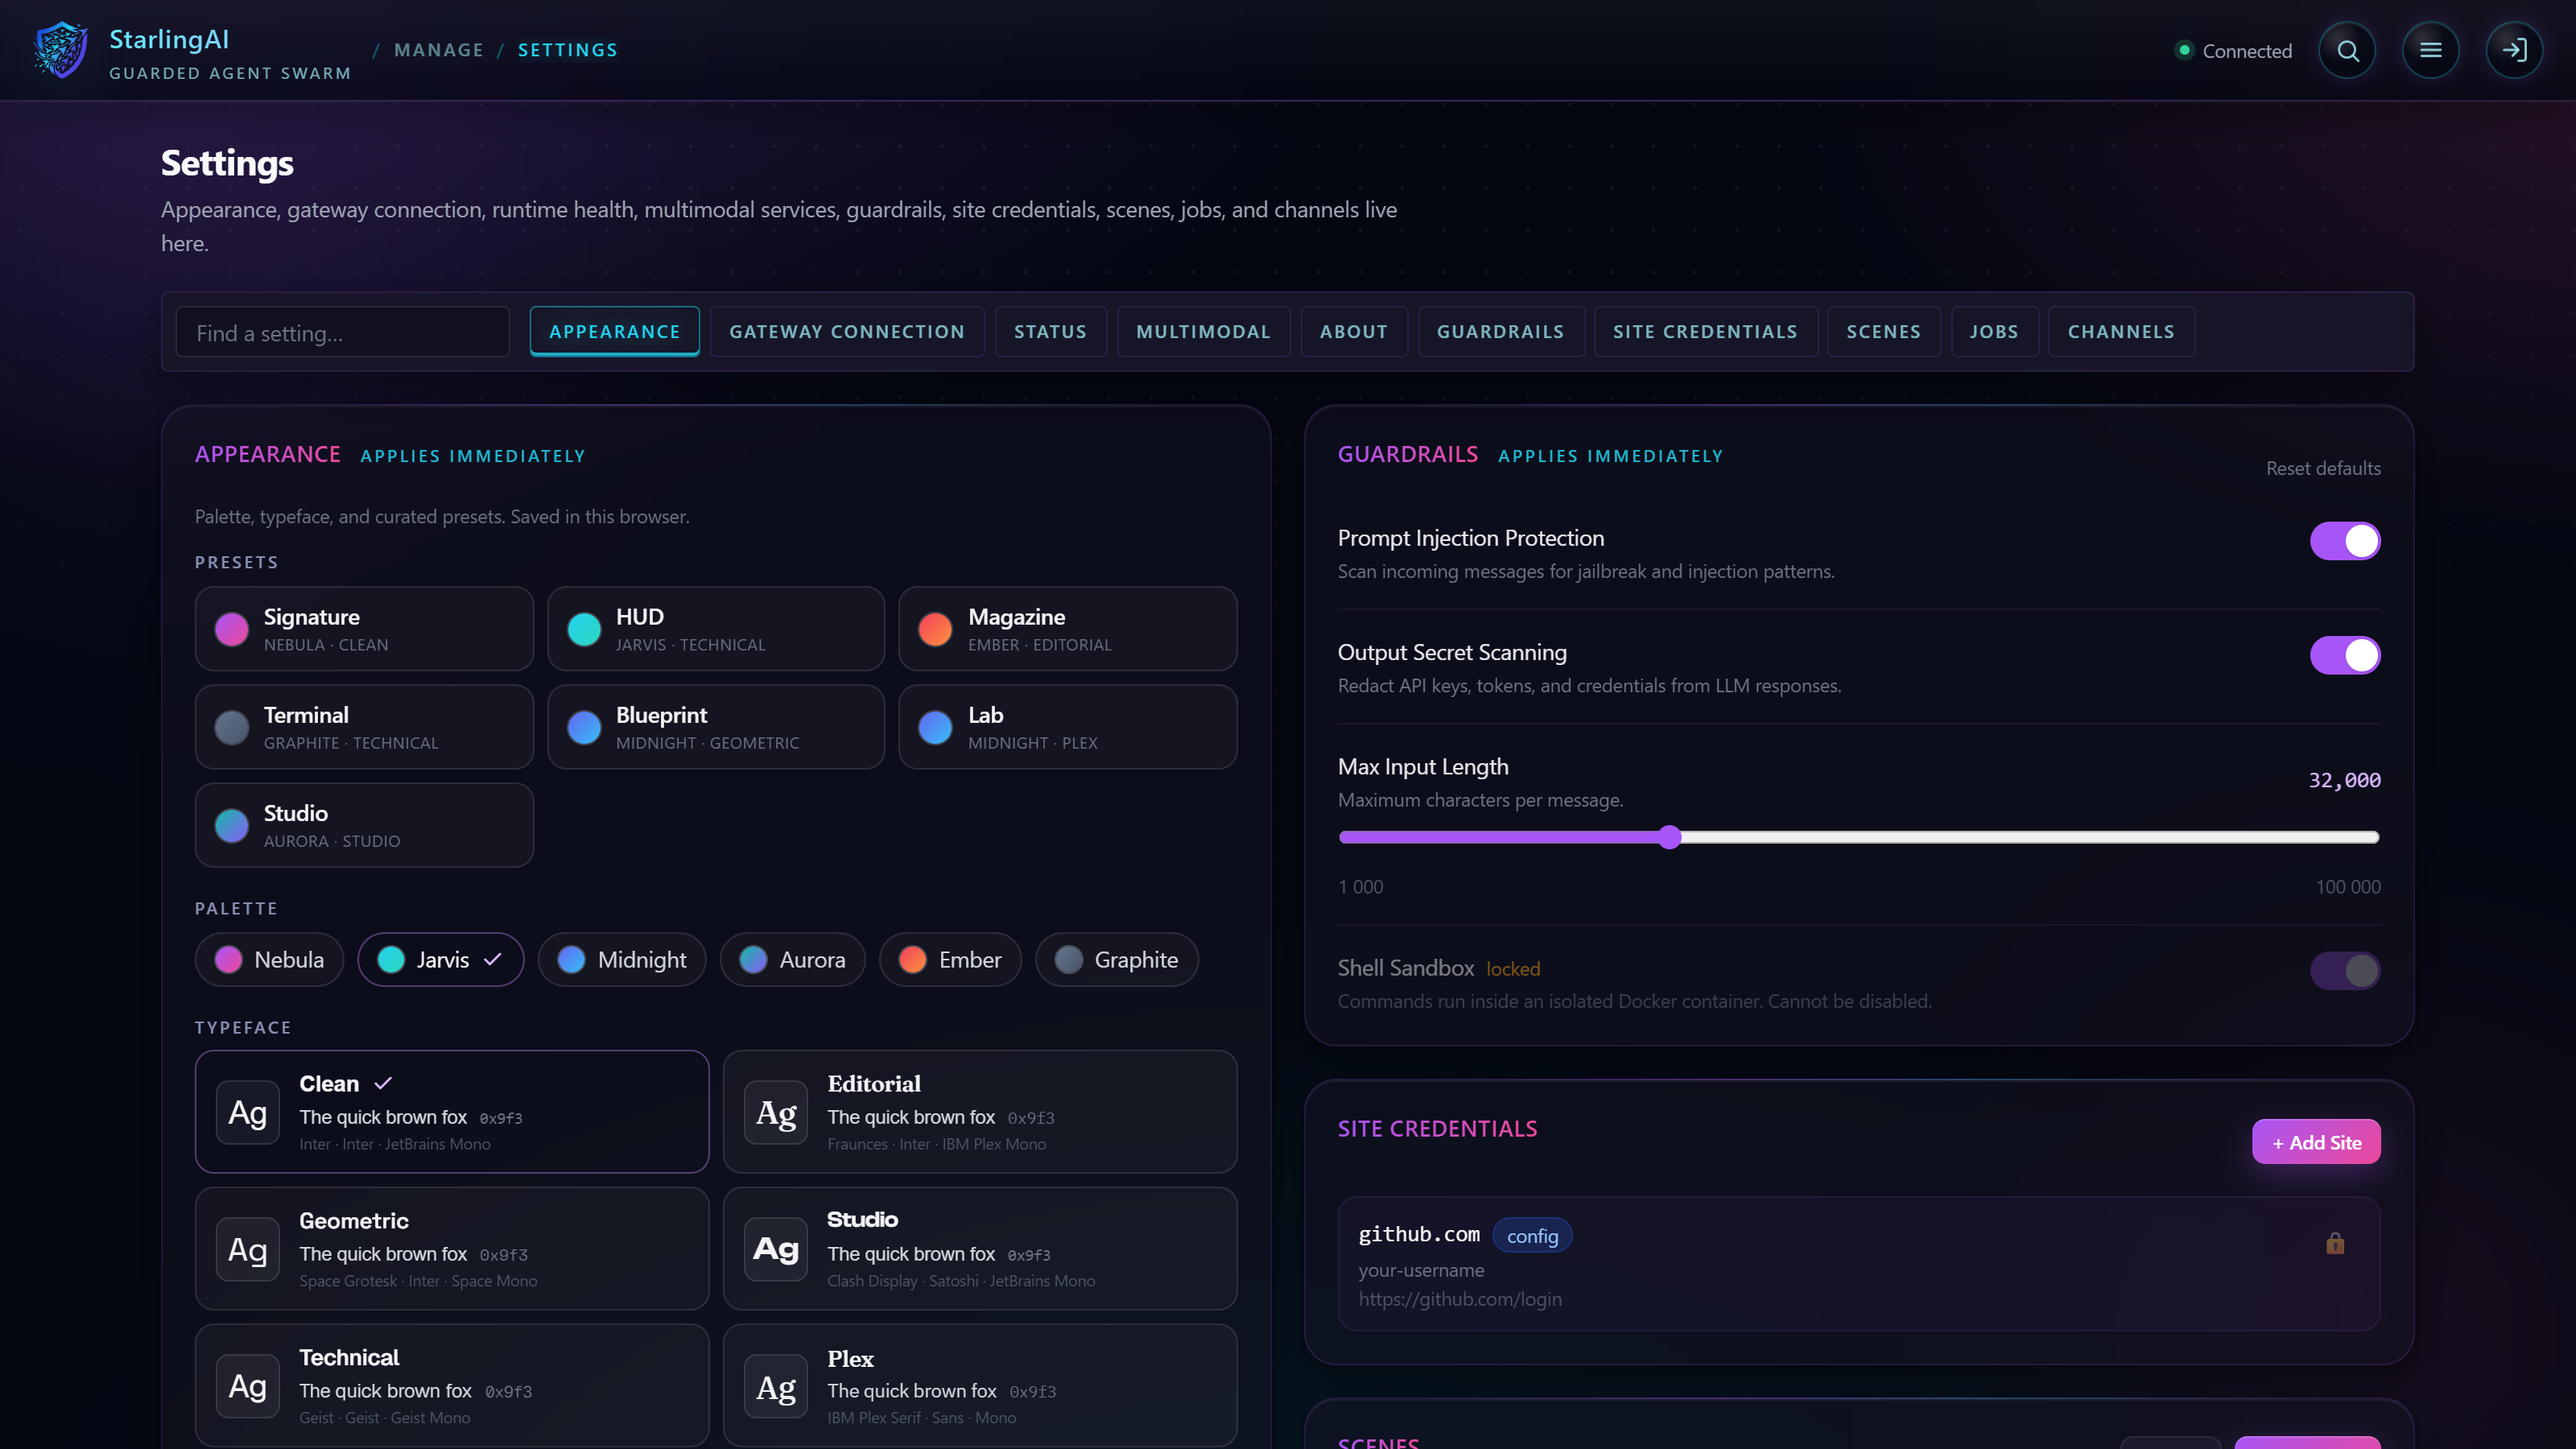
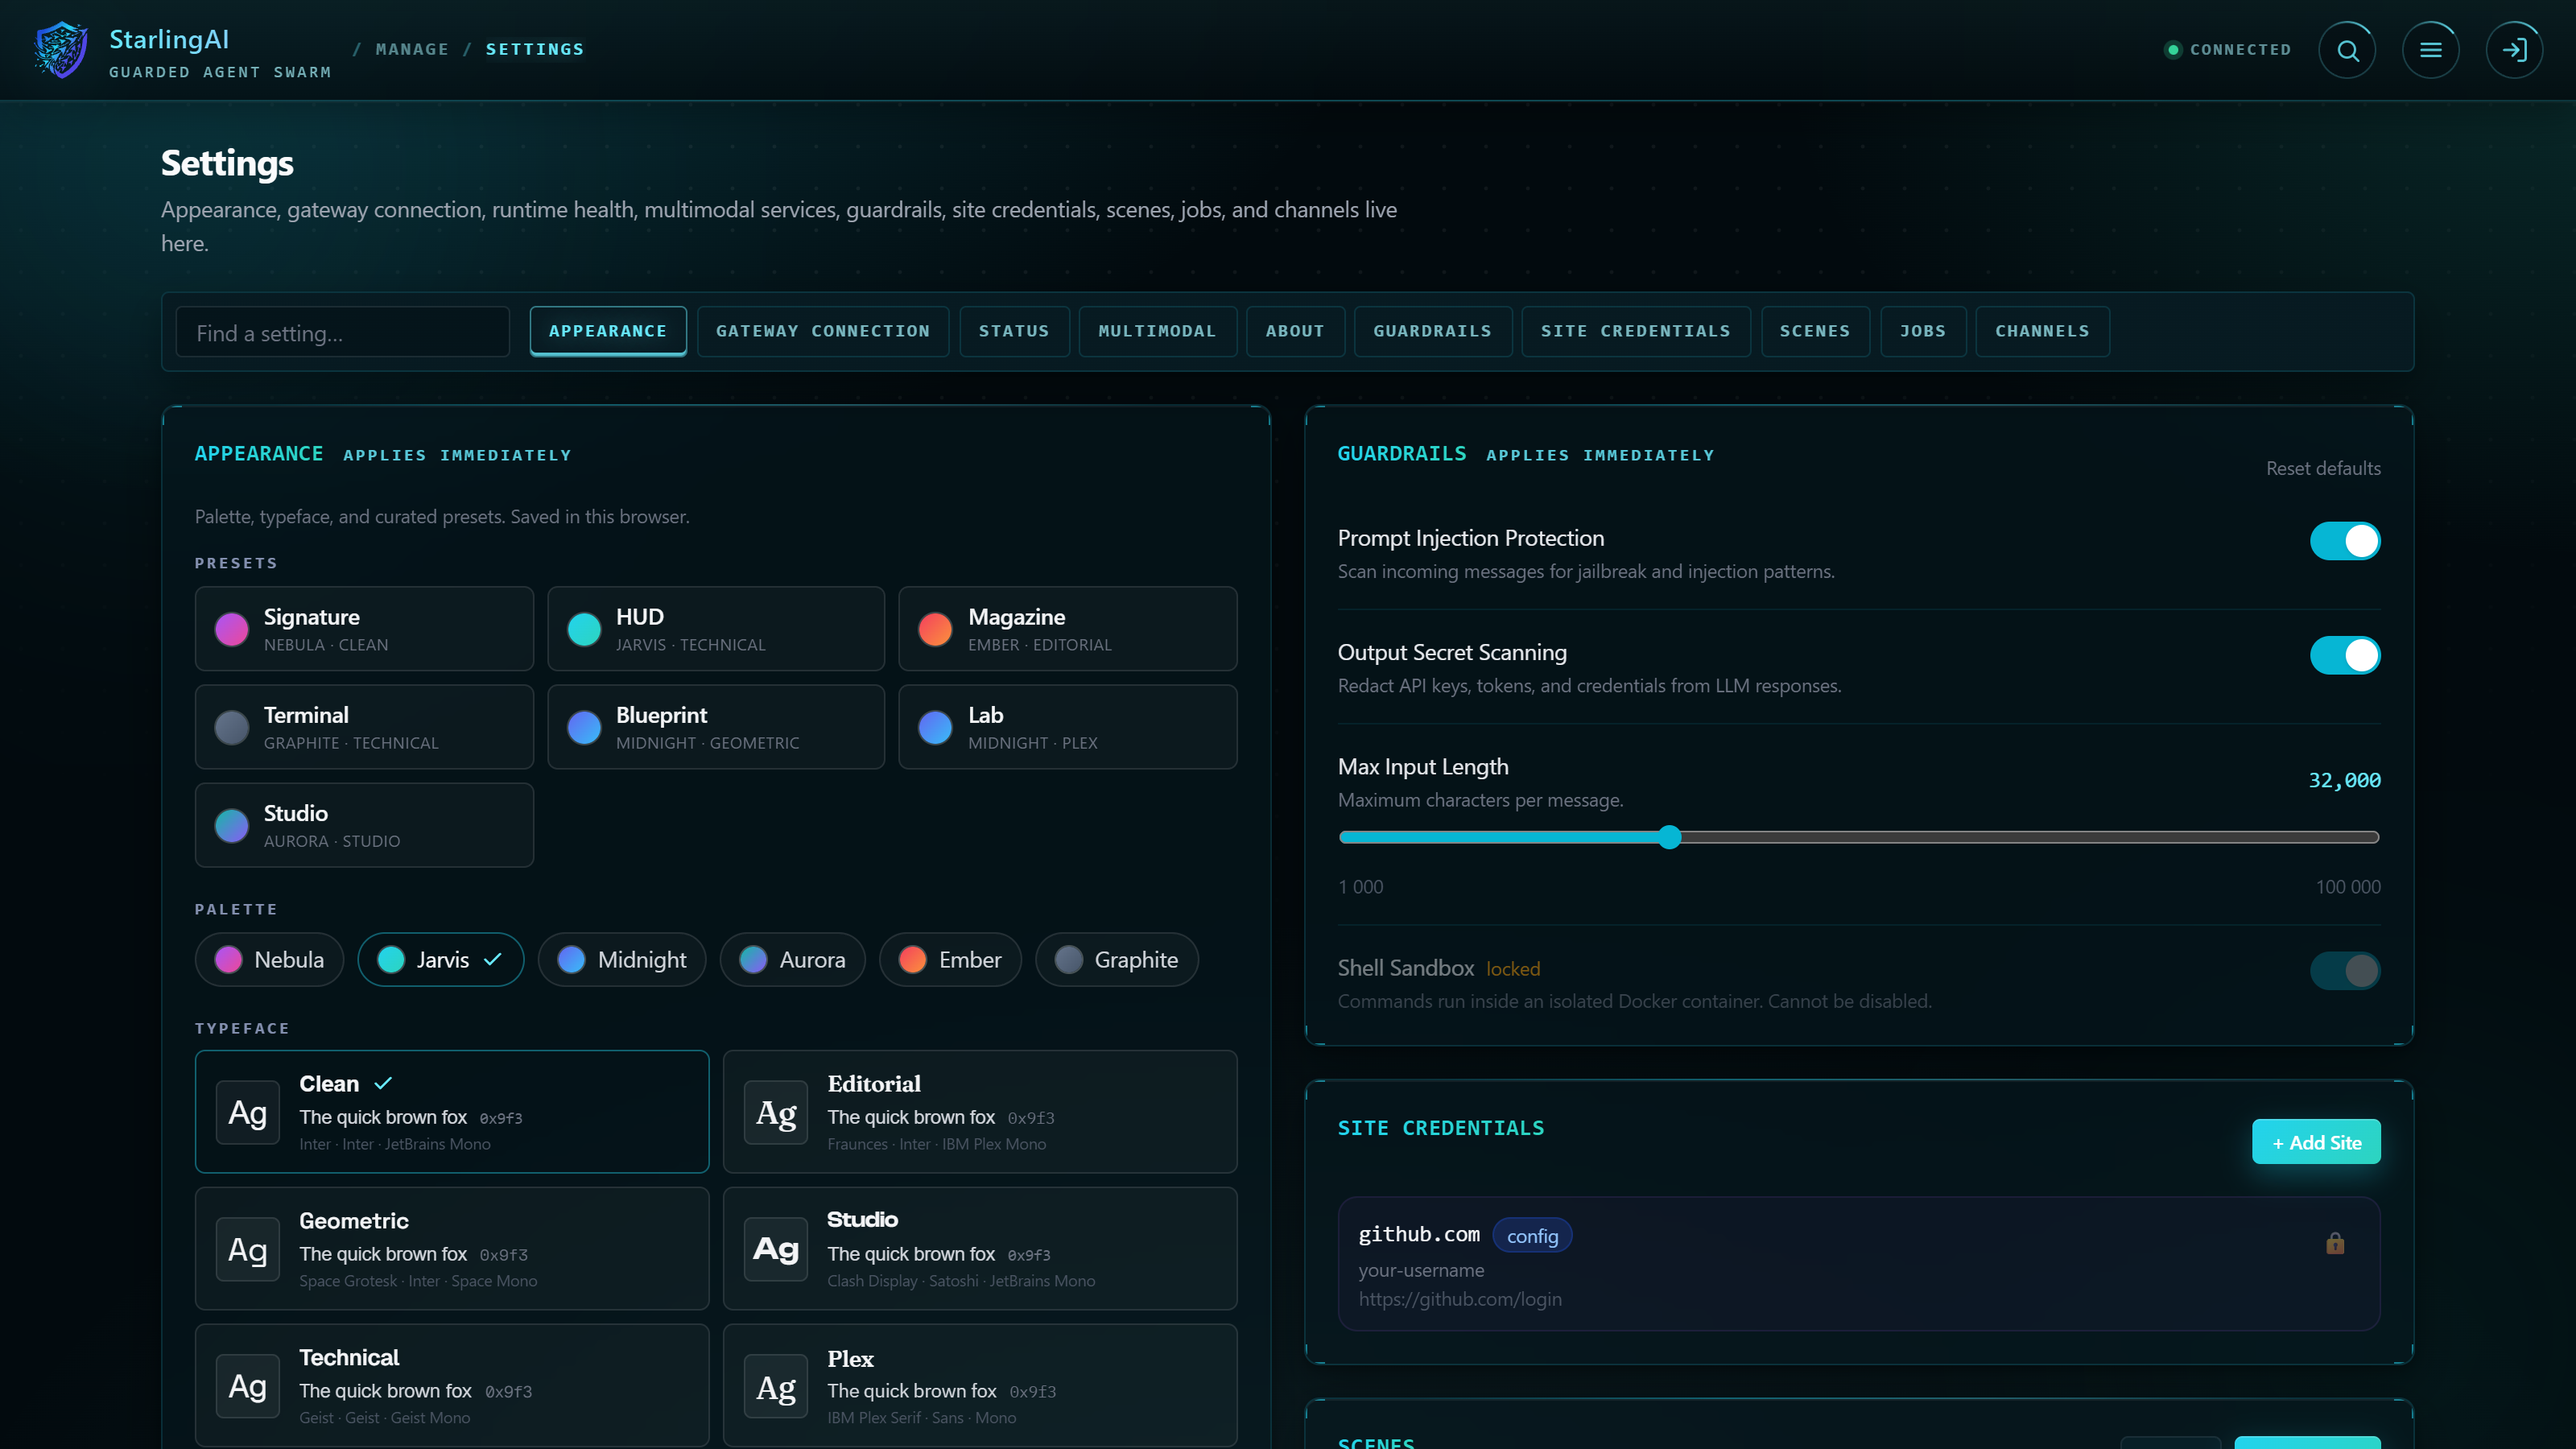
docs(readme): the screenshots show the controls on their orbit
All six reshot at 3200x1800 from the real pages. They are in the default
palette now (Jarvis): the harness that takes them never applied the theme,
so they showed Nebula, and the Settings shot showed it with "Jarvis" ticked
in the palette picker. The hero is a turn that is really running, with the
input bay open for Stop and Steer, as it is on the page. The Agent Catalog
shot has the catalog as it is since the routing change
(web_task_coordinator's entry).

diff --git a/README.md b/README.md
@@ -12,7 +12,7 @@
 
 [Quick Start](#quick-start) · [What it does](#what-the-swarm-can-do) · [Architecture](docs/architecture.md) · [API](docs/api.md) · [Security](docs/security.md)
 
-<img src="assets/screenshots/chat-turn-at-orb.png" alt="The StarlingAI dashboard during a research turn — a sphere of fine light rings holds the orb's glowing core and its cloud of particles, a track of light round the orb carries the turn's steps, the newest in front, and a status line under the orb saying what the swarm is doing; the question sits on the right, an earlier answer on the left" width="100%" />
+<img src="assets/screenshots/chat-turn-at-orb.png" alt="The StarlingAI dashboard during a research turn — a sphere of fine light rings holds the orb's glowing core and its cloud of particles, a track of light round the orb carries the turn's steps, the newest in front, and a status line under the orb saying what the swarm is doing; above the orb stand the session's two controls, each in a small gimbal of light; the question sits on the right, an earlier answer on the left, and the input bay at the foot offers Stop and Steer" width="100%" />
 <sub><em>The swarm at work. A sphere of fine light rings holds the orb's breathing core; while a turn runs, a track of light assembles round the orb and carries the turn's steps — the newest in front — and one line beneath says what it is doing right now.</em></sub>
 
 </div>
@@ -202,7 +202,7 @@ pnpm sai dev web               # start web UI in dev mode
 <br/><sub><em>Swarm Health: the warden's live view — alerts, capability gaps, tool promotions, paused tasks, circuit breakers.</em></sub>
 </div>
 
-- **The turn at the orb** — the orb's core and its cloud of particles breathe inside a sphere of hairline rings: a globe cage, graduated scales and slowly tumbling gimbals, drawn in light. While a turn runs, a track of the same make assembles round the whole orb and the turn's steps ride on it, and one status line under the orb says, in the swarm's own words, what it is doing now: its plan, a finished step, that it is still on it. The conversation keeps only questions and answers; each answer folds its steps into one line that opens the full record, and any step opens in the side panel.
+- **The turn at the orb** — the orb's core and its cloud of particles breathe inside a sphere of hairline rings: a globe cage, graduated scales and slowly tumbling gimbals, drawn in light. While a turn runs, a track of the same make assembles round the whole orb and the turn's steps ride on it, and one status line under the orb says, in the swarm's own words, what it is doing now: its plan, a finished step, that it is still on it. The conversation keeps only questions and answers; each answer folds its steps into one line that opens the full record, and any step opens in the side panel. The page's own controls — the session, its actions, the message input — stand in the orb's space too: each a glyph in a small gimbal, riding an orbit round the orb.
 - **A dashboard that answers** — `Ctrl+K` reaches any page or action in a few letters, and typing anywhere on the chat starts a message. Every page names itself, says so when its data could not be loaded, and asks before anything that cannot be undone. Settings has a section index, a search over its cards, and marks what is not saved yet. Chat labels follow the conversation's language (English or German).
 - **Live observability** — token streaming to the dashboard via AG-UI SSE, live shell previews, per-turn performance telemetry, and audit/debug Markdown exports on top of a JSONL + PostgreSQL audit trail.
 - **Distributed tracing** — OpenTelemetry spans cover tool calls, sub-agents, and federation hops, with W3C `traceparent` propagated across instances.
